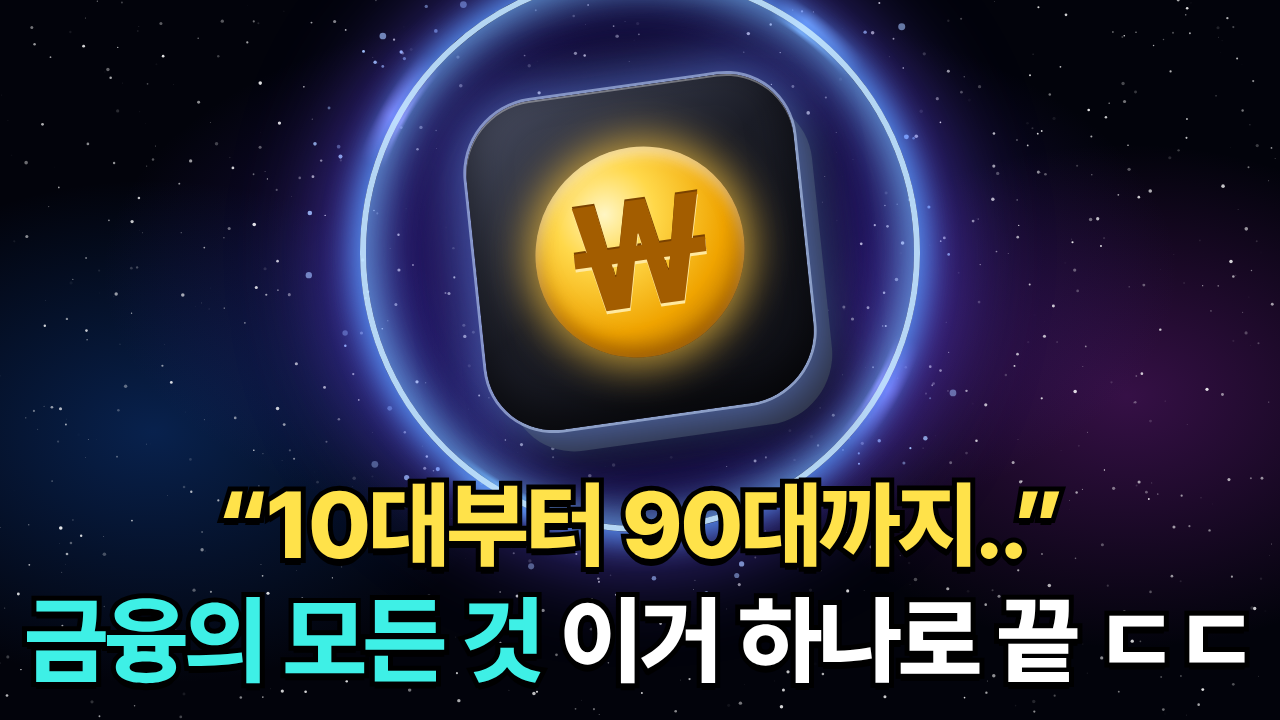
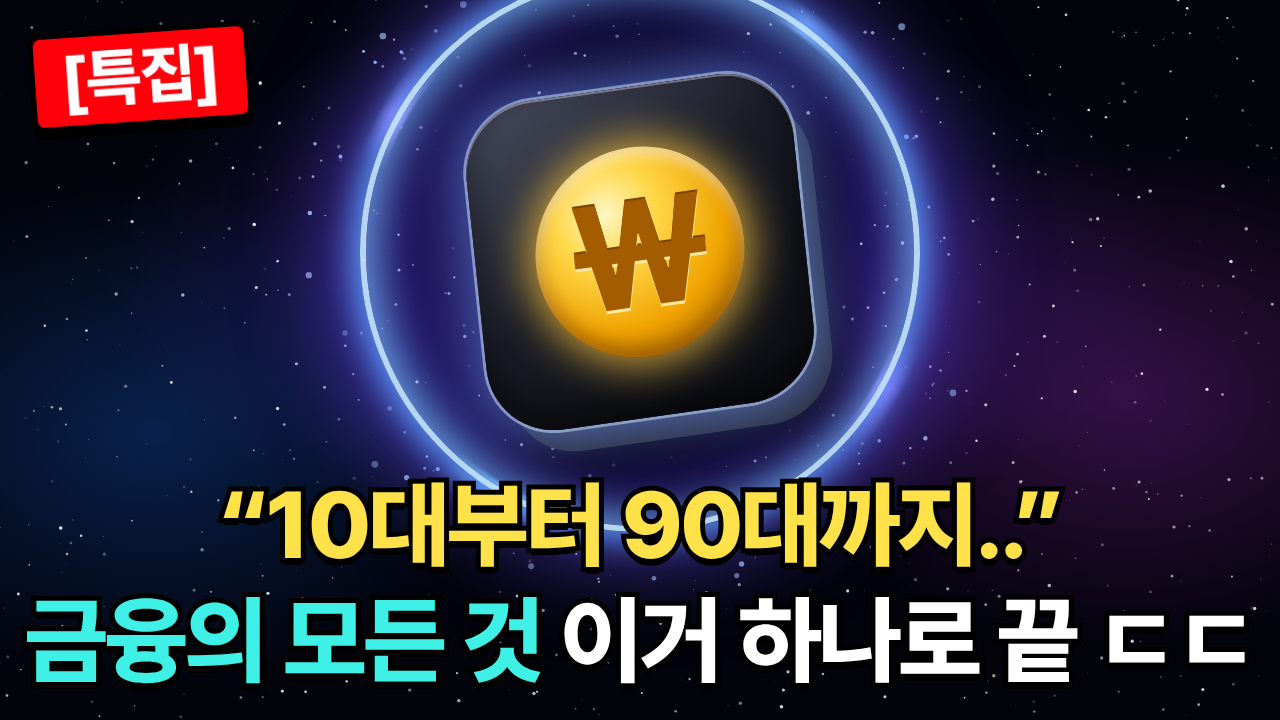
썸네일 C/D 왼쪽 위에 [특집] 배지 추가
Claude-Session: https://claude.ai/code/session_01NXxrBxiZXZCx7QJL7idiBg

Changed region(s): [[0.0, 0.0306, 0.2188, 0.1833]]

diff --git a/video_projects/경제2/금융의모든것/썸네일/cosmic_template.html b/video_projects/경제2/금융의모든것/썸네일/cosmic_template.html
@@ -26,9 +26,11 @@ canvas{position:absolute;inset:0}
 .t1{top:478px;font-size:94px;color:#FFE24A}
 .t2{top:592px;font-size:96px;color:#fff}
 .t2 b{color:#3EF0E6}
+.badge{position:absolute;left:30px;top:28px;padding:10px 26px 14px;background:#FD000A;color:#fff;font-weight:900;font-size:64px;letter-spacing:-1px;line-height:1;border:5px solid #000;border-radius:12px;box-shadow:0 7px 0 #000;transform:rotate(-4deg)}
 </style></head><body><div id="sky"></div><canvas id="c" width="1280" height="720"></canvas>
 <div class="ring2"></div><div class="ring"></div>
 <div class="tile">__ICON__</div>
+<div class="badge">[특집]</div>
 <div class="t1">“10대부터 90대까지..”</div>
 <div class="t2"><b>금융의 모든 것</b> 이거 하나로 끝 ㄷㄷ</div>
 <script>
